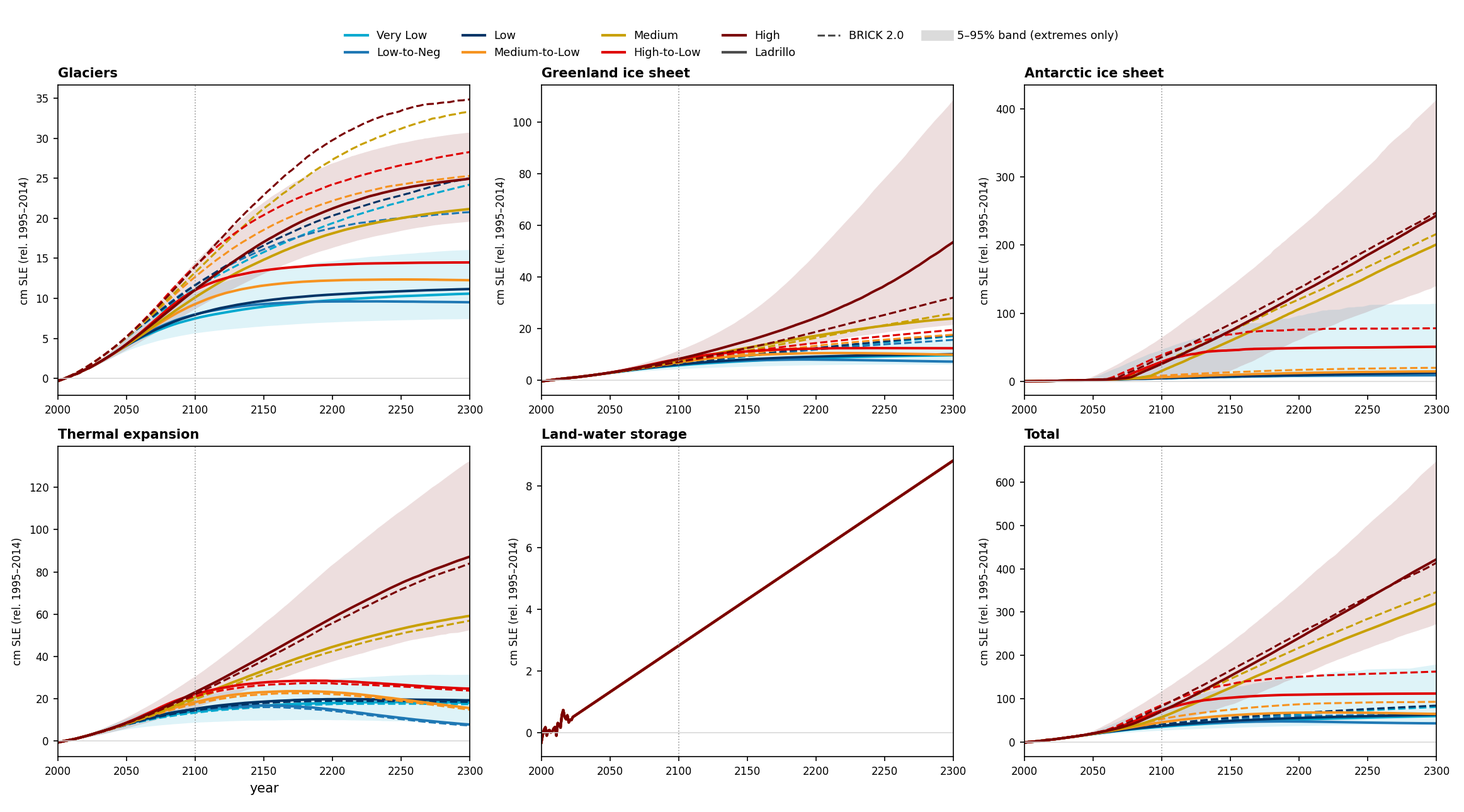
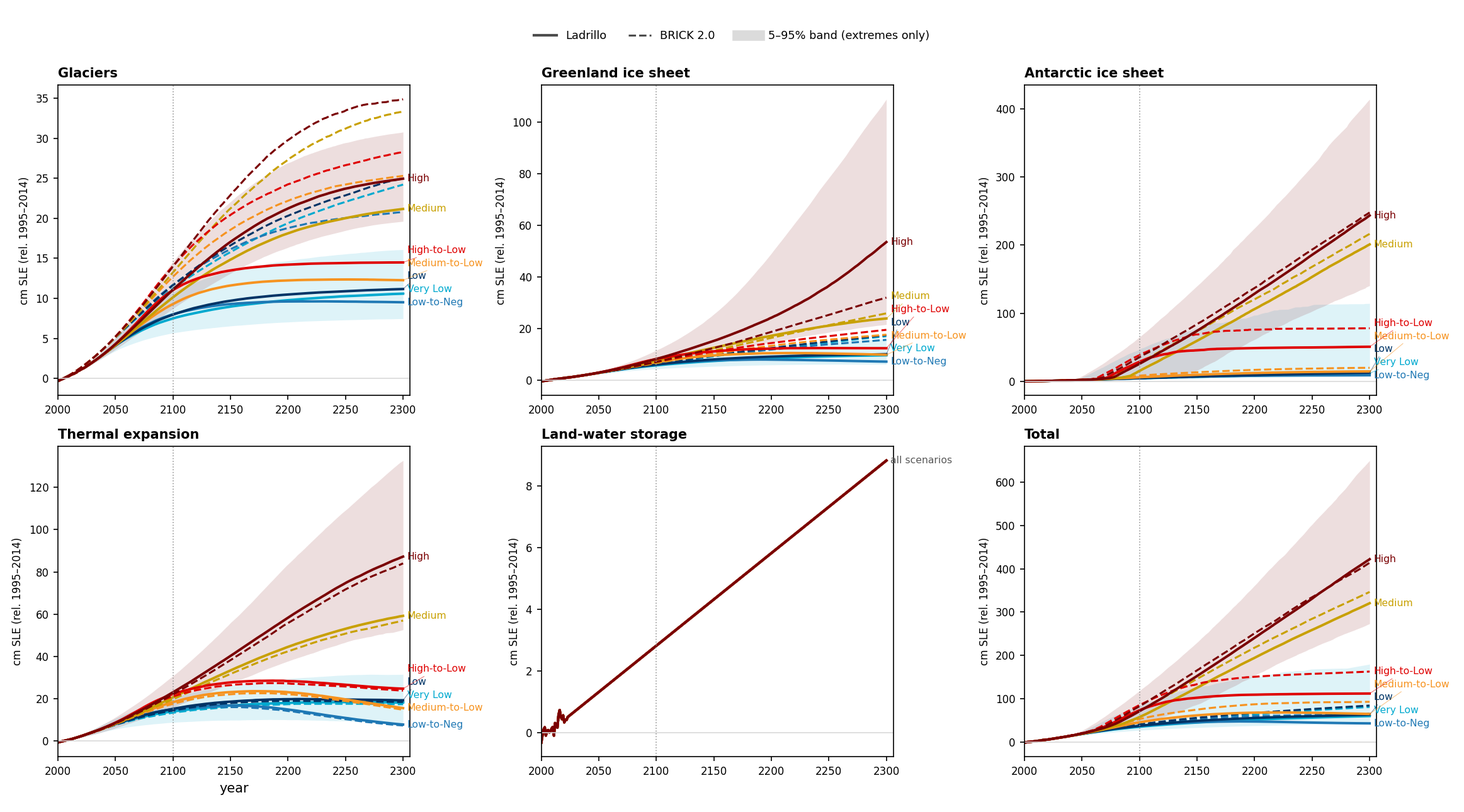
Direct-label the seven van Vuuren scenarios (Marcus's ruling); FIG 4 + FIG 5 rebuilt
Seven scenarios cannot be made mutually distinguishable by colour at the
accessibility floors, and the arithmetic is not close: sRGB colours with >= 3:1
contrast on white span an OKLab L* range of 70.7, so six adjacent gaps on any
sequential ramp give ~11.8 dE per gap against a floor of 15 -- before CVD is
considered. A categorical set that does clear the floors returns
magenta/black/olive/lime and destroys the scenario reading. Direct labelling
sidesteps it: with the name at the end of its own line there is no legend
lookup, so colour carries no identifying load.

ladrillo_figs.direct_label() is the one implementation, used by both figures.
Two design points:
  - it must be called AFTER the axis limits are final, since it derives its
    minimum label gap from the y-range and extends the x-limit to make room;
  - it collapses to ONE label when the whole set fits inside one gap. Land-water
    storage needed that -- LWS is identical across every scenario by
    construction, and seven stacked leader lines there asserted a distinction
    that does not exist.

Label positions are taken from the series ACTUALLY DRAWN, never re-looked-up by
year: a reindex on a year the file does not carry returns NaN and the label
silently vanishes.

FIG 4 keeps a legend below the threshold (DIRECT_LABEL_ABOVE = 3), so the SSP
triple is unaffected; FIG 5 drops its colour legends in (a) and (d) and keeps
the spread box in (c), which was never a colour key.

Also records handoff 2026-09-22d.

diff --git a/python/plot_vv_gsic_wr_vs_ladrillo.py b/python/plot_vv_gsic_wr_vs_ladrillo.py
@@ -229,9 +229,16 @@ else:
     ax = {i: _axs[i] for i in range(4)}
 
 # ---- (a) GMST forcing ----
+## ⚠ DIRECT LABELS, NOT A COLOUR LEGEND (Marcus's ruling 2026-09-22). Seven scenarios cannot be
+## made mutually distinguishable by colour at the accessibility floors -- this figure's own palette
+## had #f69320 (Medium-to-Low) and #c8a000 (Medium) at OKLab dE 8.4 in NORMAL vision and 1.4 under
+## protanopia. Naming each line at its end removes the legend lookup entirely. See
+## ladrillo_figs.direct_label for the arithmetic; the label y is taken from the DRAWN series.
+_ends0 = []
 for s in LABELS:
     d = wr(s)
-    ax[0].plot(d.year.values, d.gmst.values, color=COL[s], lw=1.8, label=s)
+    ax[0].plot(d.year.values, d.gmst.values, color=COL[s], lw=1.8)
+    _ends0.append((d.gmst.values[-1], s, COL[s]))
 ax[0].set_ylabel("GMST (°C rel. PI)")
 ax[0].set_title(("Glacier melt to 2300 — %s, seven van Vuuren CMIP7 scenarios" % LAD_NAME)
                 if LADRILLO_ONLY else
@@ -241,7 +248,7 @@ ax[0].set_title(("Glacier melt to 2300 — %s, seven van Vuuren CMIP7 scenarios"
 ## melt rate (c)") -- (b) and (c) carried theirs, (a) did not (found 2026-09-11).
 ax[0].text(0.012, 0.93, "(a)  GMST forcing", transform=ax[0].transAxes, fontsize=9.5,
            fontweight="bold", va="top")
-ax[0].legend(ncol=4, fontsize=7.5, frameon=False, loc="upper left", bbox_to_anchor=(0.0, 0.88))
+lf.direct_label(ax[0], _ends0)
 _pk = {s: (wr(s).set_index("year").gmst.loc[2015:2300].idxmax(),
            wr(s).set_index("year").gmst.loc[2015:2300].max()) for s in DECLINE}
 ax[0].annotate("%d peak-and-decline pathways\n(peaks %.2f–%.2f °C, %d–%d)"
@@ -265,9 +272,11 @@ if ax[1] is not None:
                % WR_NAME, transform=ax[1].transAxes, fontsize=9.5, fontweight="bold", va="top")
 
 # ---- (c) Ladrillo ----
+_ends2 = []
 for s in LABELS:
     d = lad(s)
     ax[2].plot(d.index.values, d.med_cm.values, color=COL[s], lw=1.9)
+    _ends2.append((d.med_cm.values[-1], s, COL[s]))
     if s == SPREAD_LO:
         ax[2].fill_between(d.index.values, d.p05_cm.values, d.p95_cm.values,
                            color=COL[s], alpha=0.15, lw=0)
@@ -296,30 +305,35 @@ for a in [x for x in (ax[1], ax[2]) if x is not None]:
     a.set_ylim(0, ymax)
     a.axvline(2100, color="0.6", lw=0.8, ls=":")
     a.set_ylabel("cumulative glacier\nmelt (cm SLE, rel 1995–2014)")
+## ⚠ AFTER set_ylim: direct_label derives its minimum label gap from the y-RANGE, so calling it
+## before the limits are final spaces the labels against the wrong axis.
+lf.direct_label(ax[2], _ends2)
 
 # ---- (d) melt rate on the four decline pathways ----
 ## THE COMMITMENT PANEL, built from the DECLINE flag in MARKERS rather than a typed list,
 ## so it cannot fall out of step with panel (a).
+_ends3 = []
 for s in DECLINE:
     if not LADRILLO_ONLY:
         d = wr(s)
         ax[3].plot(d.year.values, np.gradient(d.gsic_med.values, d.year.values) * 100,
                    color=COL[s], lw=1.8, ls="-")
     e = lad(s)
-    ax[3].plot(e.index.values, np.gradient(e.med_cm.values, e.index.values) * 100,
-               color=COL[s], lw=1.8, ls="-" if LADRILLO_ONLY else "--")
+    _r = np.gradient(e.med_cm.values, e.index.values) * 100
+    ax[3].plot(e.index.values, _r, color=COL[s], lw=1.8, ls="-" if LADRILLO_ONLY else "--")
+    _ends3.append((_r[-1], s, COL[s]))
 ax[3].axhline(0, color="0.6", lw=0.8)
 ax[3].axvline(2100, color="0.6", lw=0.8, ls=":")
 ax[3].set_ylabel("melt rate\n(cm / century)")
 ax[3].set_xlabel("year")
 ax[3].set_xlim(X0, X1)
+lf.direct_label(ax[3], _ends3)
 ax[3].text(0.012, 0.93, (("(c)  melt rate on the %d peak-and-decline pathways — falls toward zero "
                           "as the reservoirs equilibrate") if LADRILLO_ONLY else
                          ("(d)  melt rate on the %d peak-and-decline pathways — WR solid stays "
                           "high, Ladrillo dashed falls toward zero")) % len(DECLINE),
            transform=ax[3].transAxes, fontsize=9.5, fontweight="bold", va="top")
-ax[3].legend(handles=[Line2D([], [], color=COL[s], label=s) for s in DECLINE]
-             + ([] if LADRILLO_ONLY else
+ax[3].legend(handles=([] if LADRILLO_ONLY else
                 [Line2D([], [], color="0.3", ls="-", label="Wigley–Raper"),
                  Line2D([], [], color="0.3", ls="--", label="Ladrillo %s" % LADRILLO_TAG)]),
              fontsize=8, frameon=False, loc="upper right",

diff --git a/python/ladrillo_figs.py b/python/ladrillo_figs.py
@@ -475,6 +475,63 @@ def check_component_sum(byc, scen, model, year=2300, tol_cm=1e-6):
 ## caption text that would have been drawn, so the stamp is one directory away, not lost.
 PAPER = "--paper" in sys.argv
 
+def direct_label(ax, entries, pad_frac=0.02, fontsize=7.5, min_gap_frac=0.042,
+                 collapsed_text="all scenarios"):
+    """Label each series at its right-hand end instead of in a legend.
+
+    WHY THIS EXISTS (2026-09-22, Marcus's ruling). The seven van Vuuren markers cannot be made
+    mutually distinguishable by COLOUR at the accessibility floors, and the arithmetic is not close:
+    sRGB colours with >= 3:1 contrast on white span an OKLab L* range of 70.7, so six adjacent gaps
+    on any sequential ramp give ~11.8 dE per gap against a floor of 15 -- before colour-vision
+    deficiency is considered at all. A categorical set that DOES clear the floors returns
+    magenta/black/olive/lime and destroys the scenario reading. Direct labelling sidesteps the whole
+    problem: with the name at the end of its own line there is no legend lookup, so colour carries no
+    identifying load and need only be pleasant. `figures/diag_imbie2026_dynamics_null_L30.png` is the
+    in-repo precedent.
+
+    ⚠ NOT a substitute for a readable palette where a legend IS used -- see SSP_SET's header.
+
+    `entries` is an iterable of (y, text, colour) in DATA coordinates. Labels are pushed apart to at
+    least `min_gap_frac` of the y-range so two near-coincident series stay legible, and the x-limit is
+    extended by `pad_frac` of the x-range to make room. Returns the placed y values.
+    """
+    ent = sorted(((float(y), t, c) for y, t, c in entries if y == y), key=lambda e: e[0])
+    if not ent:
+        return []
+    y0, y1 = ax.get_ylim()
+    gap = min_gap_frac * (y1 - y0)
+    ## ⚠ COINCIDENT SERIES GET ONE LABEL, NOT N STACKED ONES. Land-water storage is identical
+    ## across every scenario by construction (it is the one component exempt from the climate
+    ## driver), so labelling all seven produced a column of leader lines pointing at a single
+    ## line -- visual noise asserting a distinction that does not exist. If the whole set fits
+    ## inside one gap, say so once.
+    if len(ent) > 1 and (ent[-1][0] - ent[0][0]) < gap:
+        ym = sum(e[0] for e in ent) / len(ent)
+        x0, x1 = ax.get_xlim()
+        ax.set_xlim(x0, x1 + pad_frac * (x1 - x0))
+        ax.annotate(collapsed_text, xy=(x1, ym), xytext=(x1 + 0.012 * (x1 - x0), ym),
+                    fontsize=fontsize, color="0.35", va="center", ha="left",
+                    annotation_clip=False)
+        return [ym]
+    ys = [e[0] for e in ent]
+    ## one upward sweep then one downward, which is enough to separate any number of labels
+    ## while keeping the ORDER of the series -- reordering them would be worse than overlapping.
+    for i in range(1, len(ys)):
+        ys[i] = max(ys[i], ys[i - 1] + gap)
+    for i in range(len(ys) - 2, -1, -1):
+        ys[i] = min(ys[i], ys[i + 1] - gap)
+    x0, x1 = ax.get_xlim()
+    ax.set_xlim(x0, x1 + pad_frac * (x1 - x0))
+    for (yd, text, col), yl in zip(ent, ys):
+        ax.annotate(text, xy=(x1, yd), xytext=(x1 + 0.012 * (x1 - x0), yl),
+                    fontsize=fontsize, color=col, va="center", ha="left",
+                    annotation_clip=False,
+                    arrowprops=None if abs(yl - yd) < 0.25 * gap else
+                    dict(arrowstyle="-", color=col, lw=0.5, alpha=0.55,
+                         shrinkA=0, shrinkB=0))
+    return ys
+
+
 def paper_path(out):
     """figures/<name>.png -> figures/paper/<name>.png under --paper, unchanged otherwise."""
     if not PAPER:

diff --git a/python/plot_future_components.py b/python/plot_future_components.py
@@ -54,6 +54,9 @@ if ARM not in ("joint", "fixed"):
     raise SystemExit("--arm must be 'joint' or 'fixed', not %r" % ARM)
 DESC = lf.tag_desc(TAG)
 SCENS = lf.scen_set(SET)
+## Above this many scenarios the panel switches from a colour legend to DIRECT LABELS.
+## 3 keeps the SSP triple on a legend and puts the 7 van Vuuren markers on end-labels.
+DIRECT_LABEL_ABOVE = 3
 SETNAME = {"ssp": "CMIP6 SSPs", "vv": "van Vuuren CMIP7 scenarios"}[SET]
 OUT = lf.paper_path(os.path.join(lf.REPO, "figures",
                    "future_components_%s_%s_%s.png" % (SET, TAG, ARM)))
@@ -120,10 +123,14 @@ for k, lab, _c, _d in SCENS:
 # --- figure ----------------------------------------------------------------
 fig, axes = plt.subplots(2, 3, figsize=(15.5, 8.6))
 for ax, comp in zip(axes.ravel(), lf.COMPONENTS):
+    ends = []
     for k, lab, col, _d in SCENS:
         d = LAD[k][comp]
         d = d[(d.index >= X0)]
         ax.plot(d.index.values, d.med_cm.values, color=col, lw=1.9, ls="-")
+        ## the label's y is taken from the SERIES ACTUALLY DRAWN, never re-looked-up by year:
+        ## a reindex on a year the file does not carry returns NaN and the label silently vanishes
+        ends.append((d.med_cm.values[-1], lab, col))
         if k in BAND_SCENS:
             ax.fill_between(d.index.values, d.p05_cm.values, d.p95_cm.values,
                             color=col, alpha=0.13, lw=0)
@@ -134,11 +141,20 @@ for ax, comp in zip(axes.ravel(), lf.COMPONENTS):
     ax.axhline(0, color="0.85", lw=0.8)
     ax.set_xlim(X0, X1)
     ax.set_title(lf.COMP_TITLE[comp], fontsize=10, fontweight="bold", loc="left")
+    ## ⚠ DIRECT LABELS, NOT A COLOUR LEGEND, WHENEVER THE SET IS BIGGER THAN THE PALETTE CAN
+    ## CARRY (Marcus's ruling 2026-09-22). At seven van Vuuren markers no colour set clears the
+    ## accessibility floors while still reading as a scenario ordering -- see
+    ## ladrillo_figs.direct_label's header for the arithmetic. Naming each line at its own end
+    ## removes the legend lookup, so the colours carry no identifying load. The three SSPs are
+    ## under the threshold and keep the legend, which stays readable.
+    if len(SCENS) > DIRECT_LABEL_ABOVE:
+        lf.direct_label(ax, ends)
     ax.set_ylabel("cm SLE (rel. 1995–2014)", fontsize=8)
     ax.tick_params(labelsize=8)
 axes[1, 0].set_xlabel("year")
 
-handles = [Line2D([], [], color=c, lw=2, label=l) for _k, l, c, _d in SCENS]
+handles = ([] if len(SCENS) > DIRECT_LABEL_ABOVE
+           else [Line2D([], [], color=c, lw=2, label=l) for _k, l, c, _d in SCENS])
 handles += [Line2D([], [], color="0.3", ls="-", lw=2, label=DESC["model"]),
             Line2D([], [], color="0.3", ls="--", lw=1.5, label="BRICK 2.0"),
             Line2D([], [], color="0.3", alpha=0.2, lw=8,

diff --git a/notes/handoff_2026-09-22d_dynamics_constraint_answered.md b/notes/handoff_2026-09-22d_dynamics_constraint_answered.md
@@ -1,0 +1,171 @@
+# Handoff — the dynamics-constraint question is ANSWERED (no), and the colourblind sweep found the handoff before it pointed at the wrong palette (09-22 ~16:00 → 18:30)
+
+**Start here.** Continues `handoff_2026-09-22c_null_shipped_figures_and_L27vL30.md`, which is still the reference for the
+null's provenance and whose §4 traps stand in full (as do 09-22b §8's). Records: CHANGELOG **09-22j** (the dynamics answer)
+and **09-22k** (the palette sweep). Commit `a5662a9` on `ladrillo-dev`, pushed. Memory:
+`ais_dynamics_channel_is_the_weaker_one` (new), `objective_scores_levels_not_rates` (REVISED in place — its shape table now
+carries two limits), `INDEX_ais_imbie.md` updated.
+
+## 0. STATE AT HANDOFF
+- **Champion and paper posterior remain L27.** Nothing was refitted; `champions.json` and the draft are untouched.
+- **Nothing is running.** Every result below is a fixed-parameter diagnostic.
+- The calibration target is unchanged (`recalib_targets_ext.csv`, md5 `eb768cd9…`).
+- The three stale `outputs/*_L24.*` modifications from an earlier session are still in the tree; still not mine to resolve.
+- **Marcus ruled on the VV palette this session: DIRECT-LABEL the lines** (§3 below). **LANDED and both figures
+  regenerated** — `lf.direct_label()` in `ladrillo_figs.py`, wired into FIG 4 (`plot_future_components.py`) and FIG 5
+  (`plot_vv_gsic_wr_vs_ladrillo.py`); `figures/paper/future_components_vv_L27_joint.png` and
+  `figures/paper/vv_gsic_ladrillo_L27_2300.png` rebuilt at `--tag=L27 --paper`.
+
+## 1. ⭐⭐ THE ANSWER: a dynamics constraint would NOT help, and the premise it rested on was WRONG
+
+Marcus asked: *"Consider whether adding a dynamics constraint could help with making a good model."*
+
+### 1a. ⚠⚠ First, the correction — do not rebuild the argument on the old premise
+The case for a dynamics channel rested on reading `diag_ais_objective_shape_sensitivity_L30.csv` as "the level channel is
+blind to discharge SHAPE": at ρ 0.966, constant offset q **2.5343** vs late divergence **2.5308**, ratio **1.001**. Both
+halves of that reading are wrong for this purpose:
+
+1. **The indifference is a FUNCTION OF ρ, and `rho_ais` is SAMPLED.** The same ratio is **1.74 at ρ 0.90** and **2.03 at
+   ρ 0.60**. And ρ_ais went **0.893 (L27) → 0.966 (L28/L30)** when the target became the IMBIE level. So the blindness is
+   not a property of the objective — it is a property of where the refit put ρ.
+2. ⭐ **It does not transfer to a physically realisable move.** Those are abstract unit shapes normalised to 0.1 cm at the
+   final year. A real move along the DAIS discharge ridge changes the whole 1900–2025 trajectory and the level channel sees
+   it plainly. **General lesson, now in memory: never price a degeneracy on abstract shapes when the parameters that would
+   produce it can be perturbed directly.**
+
+### 1b. The test that replaced it — `julia/diag_ais_isocumulative_channels.jl` (NEW)
+Hold the **1979–2023 cumulative FIXED** and vary only discharge SHAPE, so any preference a channel expresses cannot be the
+cumulative re-read with a sign flip — which, by `ais_net_dynamics_tradeoff_identity`, is exactly what an arm-to-arm
+comparison *cannot* rule out. Two independent axes, `ais_iceflow0`/`anto_beta` solved by **secant** against each:
+- `--axis=alpha` → `antarctic_alpha`, the flux law's temperature-INDEPENDENT `(1−α)` vs temperature-TRACKING `α·r(t)²` split
+- `--axis=anto` → `anto_alpha`/`anto_beta`, the ocean-temperature response's slope and offset
+
+⚠ `ISO_TOL` is **derived from the sampled spread** (0.05 sd of cum_1979_2023, measured at run time = 0.0016 cm), per the
+standing tolerance rule. L27, n = 100. `alpha` 500/500 cells converged, `anto` 498/500.
+
+| axis `alpha` (α×) | 2018–23 dyn anom | d LEVEL | d DYN ind | d DYN ar1 | d DYN win |
+|---|---|---|---|---|---|
+| 0.50 | −63.4 | −2.56 ± 0.37 | −3.46 ± 0.17 | −0.94 ± 0.05 | −3.20 ± 0.14 |
+| 0.75 | −92.0 | **+0.28 ± 0.17** | −1.02 ± 0.12 | −0.28 ± 0.03 | −1.00 ± 0.09 |
+| 1.00 (control) | −119.1 | 0 | 0 | 0 | 0 |
+| 1.30 | −150.4 | −4.12 ± 0.37 | −0.47 ± 0.24 | −0.12 ± 0.06 | −0.22 ± 0.20 |
+| 1.60 | −180.8 | **−12.27 ± 1.29** | −2.79 ± 0.74 | −0.73 ± 0.20 | −2.01 ± 0.61 |
+
+| total discrimination across the contour | LEVEL | DYN ind | DYN ar1 | DYN win |
+|---|---|---|---|---|
+| axis `alpha` | **12.55** | 3.46 | 0.94 | 3.20 |
+| axis `anto` | **16.48** | 4.15 | 1.05 | 3.59 |
+
+**Three findings, both axes agreeing:**
+1. **The level channel is NOT degenerate along this direction** — 12.6–16.5 log-units, rejecting the accelerating end hard
+   and ASYMMETRICALLY (α×1.6 costs 12.3, α×0.5 only 2.6). Consistent with `ais_ramp_rejected_by_the_pause`.
+2. **The dynamics channel is the WEAKER of the two everywhere** — **3.6–4.0× (IND)**, **13.4–15.7× (AR1)**. σ_dyn (76 Gt/yr
+   typically, 150 over 2020–23) is why, the same reason D1 priced at ≤3 against the ramp.
+3. ⭐⭐ **DECISIVE: both channels share an optimum (α×0.75–1.00) and both penalise α×1.30 and α×1.60 — the cells that
+   bracket IMBIE's own −167.2 Gt/yr.** A dynamics constraint is a **weaker copy of the pull the level channel already
+   exerts**, not a corrective. Mechanism = the identity: at fixed cumulative, steepening 2018–23 forces the earlier decades
+   weaker, and the channel scores all 45 years.
+
+⇒ **Third independent confirmation that DAIS has no direction reaching IMBIE's acceleration** (the ρ-cap side and the ramp
+side being the other two).
+
+### 1c. ⛔ And the ρ-cap route is dead too — L29 already ran it
+L29 (same IMBIE target, ρ capped at 0.90, p50 0.885 pressed on the bound) is **indistinguishable from L28 on every
+channel**: DYN ind 0.0 ± 0.6, LEV 0.3 ± 0.4. And its projections move **further** from L27, not back:
+SSP1-2.6 **2300 AIS p95** = L27 **65.8**, L28 44.9, **L29 28.7**, L30 53.3 cm (fixed-climate arm).
+⚠ Read that spread with `ais_amp_leverage_is_a_threshold` in hand — it is a **tipped share crossing 5 %**, not a smooth
+sensitivity. Do not quote it as "the projection changed 2×".
+
+### 1d. The arm-level companion — `julia/diag_ais_channel_separation.jl` (NEW)
+L27/L28/L29/L30, n = 100 each, both channels, ⚠ each arm's own (sd_ais, ρ_ais) applied to **every** arm in turn (a
+log-likelihood LEVEL is not comparable across arms that sampled different σ).
+
+| arm | ρ_ais | cum 79–23 cm | baseline discharge | 2018–23 dyn anom |
+|---|---|---|---|---|
+| IMBIE 2026 | — | ~1.33 | — | **−167.2** |
+| L27 | 0.893 | 0.948 ± 0.008 | −1918.5 ± 11.8 | **−119.1 ± 4.6** |
+| L28 | 0.966 | 1.224 ± 0.011 | −1928.8 ± 10.7 | −74.6 ± 4.4 |
+| L29 | 0.885 | 1.300 ± 0.007 | −1952.5 ± 10.6 | −73.4 ± 4.2 |
+| L30 | 0.967 | 1.214 ± 0.010 | −1945.5 ± 11.1 | −102.0 ± 5.7 |
+
+⭐ **The identity is visible straight down these columns**: cumulative 0.948 → 1.300 cm as the dynamics anomaly degrades
+−119 → −73. Level channel L28 − L27 = **+7.4 ± 0.4**; dynamics channel L27 − L28 = **+3.1 ± 0.5** (IND).
+⛔ **NEVER QUOTE THIS COMPARISON ALONE.** It cannot separate "the dynamics channel carries independent information" from
+"the dynamics channel is the cumulative with a sign flip" — which is the whole reason §1b exists.
+
+## 2. ⚠ TRAPS IN THE NEW CODE (09-22c §4 and 09-22b §8 still apply in full)
+- ⛔ **`ndrop += 1` inside the draw loop created a NEW LOCAL** under Julia's soft-scope rule, so non-converged
+  iso-cumulative cells would have reported **0 dropped** regardless — a silent gate of exactly the family `INDEX_diag`
+  catalogues. Julia's own warning caught it before the production run; it now says `global ndrop += 1`. **If you copy this
+  script, copy that.**
+- ⚠ **A frozen copy must live in `julia/`, not a subdirectory** — the scripts `include(joinpath(@__DIR__, …))`, so
+  `julia/_frozen/…` cannot find `ladrillo_projection.jl`. The repo convention is `julia/_frozen_<name>.jl`; these are
+  **gitignored**, so the frozen copies are not in the commit (the source files are).
+- ⚠ **The likelihood in both new scripts is a RE-IMPLEMENTATION** of `hetero_logl_ar1`, same as the 09-22f/g family.
+  ⭐ **The 09-22c handoff's claim that the calibrator cannot be included is STALE** — `calibrate_mcmc_ext.jl` has had a
+  `if abspath(PROGRAM_FILE) == @__FILE__` guard since ~line 2349 and six scripts already include it. But its top-level
+  `const`s parse `ARGS`, so an includer inherits its own flags and pays the full target-read plus Mimi build. Re-implementing
+  is still the right call; the reason is different from the one recorded.
+- ⚠ **`diag_ais_flux_split_vs_imbie.jl:30` reads `ice_flux` ONLY** and `run_L30.sh` runs it under `--tag=L30`, so
+  `outputs/diag_ais_flux_split_vs_imbie_L30.csv`'s `net_gt` excludes L30's ramp discharge while `ais_cm` in the same file
+  includes it. Still **not fixed, still Marcus's call** (other results rest on it). There is also a fourth state term,
+  **`ISO`**, that neither that script nor the new ones carry — immaterial in the no-ramp hindcast, wrong in a response arm
+  or a tipping projection.
+- ⚠ **The level target is the IMBIE one for EVERY arm, including L27**, because `recalib_targets_ext.csv` has carried
+  `AIS_SOURCE = "imbie2026"` since L28 and the Frederikse-era file L27 was fitted to is gone. That is correct for a common
+  channel, but **L27's level score is out-of-sample and must never be read as "L27 fits worse"**.
+- ⚠ **L30 is NOT the clean IMBIE-level refit — L28 is.** L30 = L28's objective PLUS `--ais-ramp`, so L27→L30 conflates the
+  target change with the ramp. The 09-22c handoff's L27-vs-L30 framing is the confounded pair; use **L27 vs L28**.
+
+## 3. THE COLOURBLIND SWEEP — the handoff pointed at the wrong palette
+⚠ **The priority is the reverse of what 09-22c §1a assumed.** It flagged `#1b7837` green / `#b2182b` red (deutan ΔE 2.7).
+Real, but the paper's **six live figures** (confirmed by md5-matching the docx media against `figures/`; the duplicate
+images in FIG 3–6 are tracked DELETIONS of the L24 originals, not a defect) draw from `SRC_COLOR` and `VV_SET`. The SSP
+triple is the **memo** path only.
+
+| palette | verdict (`python python/validate_palette.py`) |
+|---|---|
+| `SRC_COLOR` (4 models) | all 6 pairs **PASS**; `#ff9900` contrast 2.14:1 but already has distinct markers + linestyles |
+| `SSP_SET` (3) | **2 FAIL** — green/red deutan 2.7, green/blue tritan 5.5 |
+| `VV_SET` (7) | **3 FAIL** — worst `#f69320` ML / `#c8a000` M at ΔE **8.4 in NORMAL vision** (floor 15), **1.4 protan** |
+
+⭐ **The failures LOCALISE**: the four colours that recur repo-wide (`#00a9cf`, `#003466`, `#f69320`, `#df0000` — they look
+like the IPCC AR6 scenario palette, but ⚠ **no provenance comment exists in-repo and that identification is recollection,
+not a receipt**; worth confirming before citing) are mutually safe, and so are the three in-fill colours invented to stretch
+them over seven markers. **Every failure is an anchor-vs-infill collision.**
+
+**LANDED in `a5662a9`:** `SSP_SET` → `#003466` / `#f69320` / `#df0000` (all pairs PASS, and the SSP and vv figures now speak
+one palette); the duplicated palettes in `plot_ladrillo_memo_figures.py` and `plot_vv_gsic_wr_vs_ladrillo.py` now **derive
+from `ladrillo_figs`**. **No figure has been regenerated.**
+
+**MARCUS RULED (09-22): DIRECT-LABEL the lines** for the seven van Vuuren markers, rather than re-colouring. Rationale
+measured this session: a sequential ramp **cannot** fix n = 7 (usable OKLab L* under a ≥3:1 contrast cap spans 70.7, giving
+**11.8 per adjacent gap against a floor of 15**; the best ramp tested reaches min contrast 1.05:1), and a categorical set
+that *does* clear the floors returns magenta/black/olive/lime and destroys the scenario reading. Direct labelling keeps all
+seven colours and removes the legend lookup entirely — the recipe `figures/diag_imbie2026_dynamics_null_L30.png` already uses.
+**Affected: FIG 4 (`plot_future_components.py`) and FIG 5 (`plot_vv_gsic_wr_vs_ladrillo.py`).**
+⚠ **Linestyle is NOT available as a second channel in either** — it already encodes model (Ladrillo solid vs BRICK dashed).
+⚠ **Regenerating a figure re-runs its data path**; check each script's inputs still exist at the tags the paper uses before
+assuming a label-only edit is label-only.
+
+## 4. NEXT
+1. ✅ **Direct labelling is DONE** on FIG 4 and FIG 5 and both are regenerated. Two design points worth knowing if you
+   touch `lf.direct_label()`: it must be called **AFTER** the axis limits are final (it derives its minimum label gap from
+   the y-range and extends the x-limit to make room), and it **collapses to ONE label** when the whole set fits inside one
+   gap — which is what the Land-water storage panel needs, since LWS is identical across every scenario by construction and
+   seven stacked leader lines there asserted a distinction that does not exist. ⚠ The remaining figure work is Marcus's
+   eye, not a gate: the labels are placed, but panel crowding in FIG 4's Glaciers and Thermal-expansion panels is a
+   judgement call.
+2. `SRC_COLOR`'s `#ff9900` contrast 2.14:1 — leave it (markers + linestyles carry it) or darken; not urgent.
+3. The three optional §1b follow-ups from 09-22c are now **largely overtaken**: `ρ_ais` as a secondary contributor is
+   answered by L29 (§1c); the window-by-window identity check is partly answered by the arm table (§1d). What remains
+   genuinely open is whether OTHER components absorbed part of the Antarctic level (L27 vs L28 component hindcast stats
+   were never compared — cheap).
+4. The standing list: comment #12 (code availability), venue (GMD), package extraction for Tony's team, `facts` remote,
+   FACTS/MAGICC scope, pulse analysis. And `deliverables/GMD_imbie2026_null_INSERT.md` still needs Marcus's `[MCS]`
+   sentences before it can go into the draft.
+
+## 5. SCOPE OF THE NEGATIVE RESULT — state it this way, not more strongly
+Two axes, one arm (L27), one noise-model family, nothing refitted, and **no change to the objective is proposed** — what
+Ladrillo is fitted to is methodological and Marcus's. The finding **bounds the VALUE of a dynamics channel**; it does not
+prove that no reformulation of the Antarctic likelihood could help.
